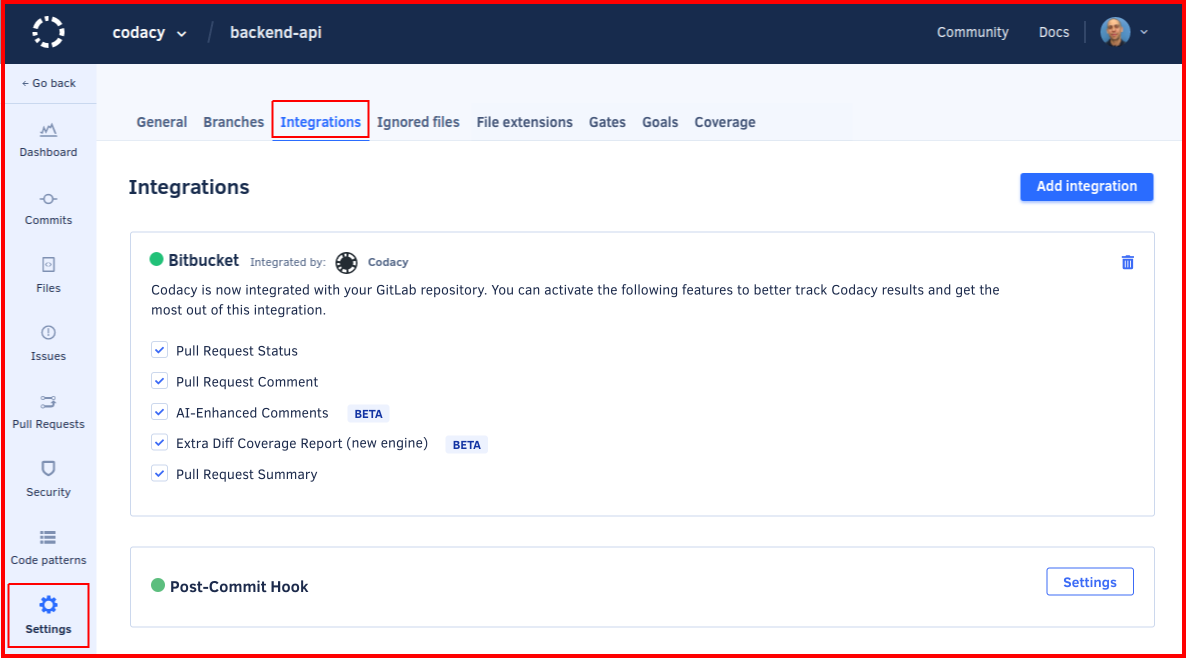
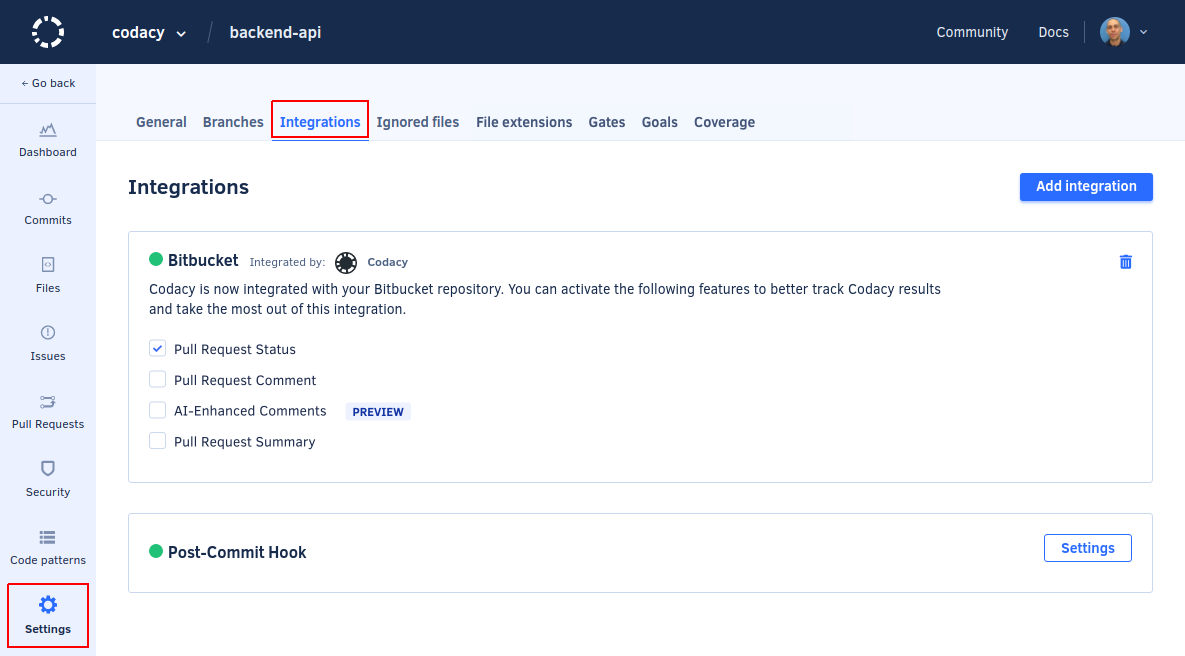
feat: Revert changes for GitLab and Bitbucket

diff --git a/docs/repositories-configure/integrations/bitbucket-integration.md b/docs/repositories-configure/integrations/bitbucket-integration.md
@@ -14,7 +14,7 @@ When the integration is enabled, you can also create pull request comments and J
 
 To enable the Bitbucket integration, open your repository **Settings**, tab **Integrations**. When you add a new repository, Codacy enables the integration using the [default settings for your organization](../../organizations/configuring-default-git-provider-integration-settings.md).
 
-![Bitbucket integration](images/bitbucket-integration.png)<!-- TODO ALA-574 Update screenshot -->
+![Bitbucket integration](images/bitbucket-integration.png)
 
 If you remove the integration, you can enable it again as follows:
 
@@ -59,12 +59,6 @@ Adds AI-enhanced comments with insights to help you fix identified issues.
 {% include-markdown "../../assets/includes/ai-info.md" %}
 
 ![AI-enhanced comment on GitLab](images/bitbucket-integration-ai-comment.png)
-
-### Extra Diff Coverage Report
-
-Adds an additional report to your pull requests from the new, faster coverage engine, showing whether your diff coverage is up to standards or not as configured on the [quality gate rules](../../repositories-configure/adjusting-quality-gates.md) for your repository. You can then optionally [block merging pull requests that aren't up to standards](../../getting-started/integrating-codacy-with-your-git-workflow.md#blocking-pull-requests).
-
-![Extra diff coverage report](images/coverage-report-new-engine.png)<!-- TODO ALA-574 Update screenshot -->
 
 ### Pull Request Summary
 

diff --git a/docs/repositories-configure/integrations/gitlab-integration.md b/docs/repositories-configure/integrations/gitlab-integration.md
@@ -10,7 +10,7 @@ The GitLab integration incorporates Codacy on your existing Git provider workflo
 
 To enable the GitLab integration, open your repository **Settings**, tab **Integrations**. When you add a new repository, Codacy enables the integration using the [default settings for your organization](../../organizations/configuring-default-git-provider-integration-settings.md).
 
-![GitLab integration](images/gitlab-integration.png)<!-- TODO ALA-574 Update screenshot -->
+![GitLab integration](images/gitlab-integration.png)
 
 If you remove the integration, you can enable it again as follows:
 
@@ -55,12 +55,6 @@ Adds AI-enhanced comments with insights to help you fix identified issues.
 {% include-markdown "../../assets/includes/ai-info.md" %}
 
 ![AI-enhanced comment on GitLab](images/gitlab-integration-ai-comment.png)
-
-### Extra Diff Coverage Report
-
-Adds an additional report to your merge requests from the new, faster coverage engine, showing whether your diff coverage is up to standards or not as configured on the [quality gate rules](../../repositories-configure/adjusting-quality-gates.md) for your project. You can then optionally [block merging merge requests that aren't up to standards](../../getting-started/integrating-codacy-with-your-git-workflow.md#blocking-pull-requests).
-
-![Extra diff coverage report](images/coverage-report-new-engine.png)<!-- TODO ALA-574 Update screenshot -->
 
 ### Pull Request Summary
 
